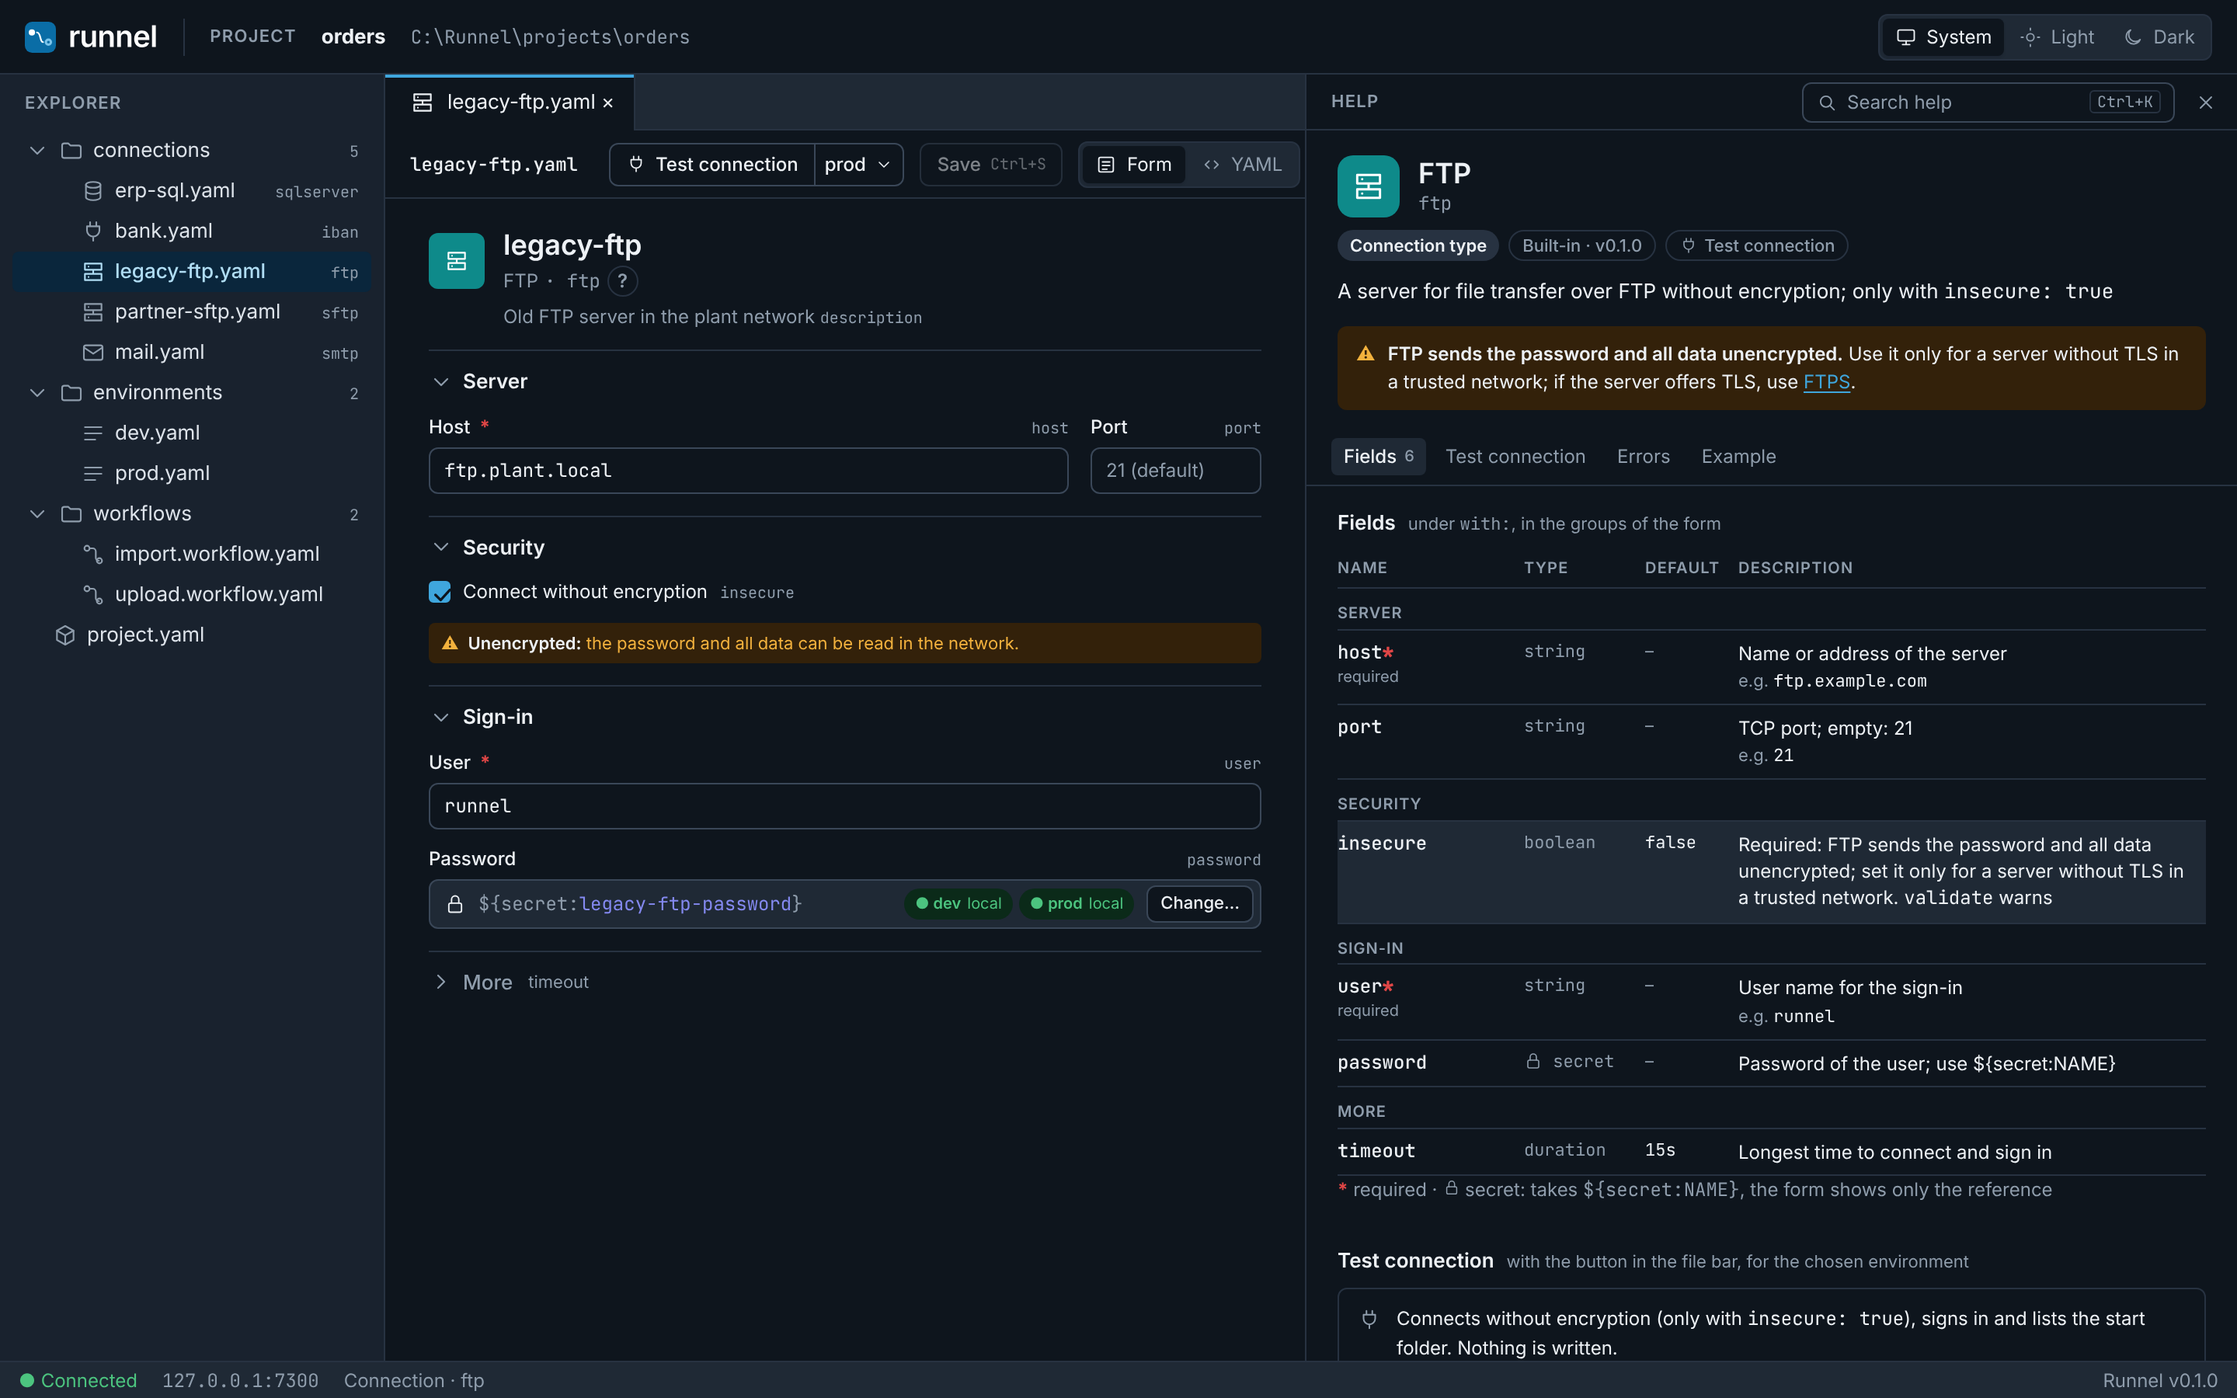
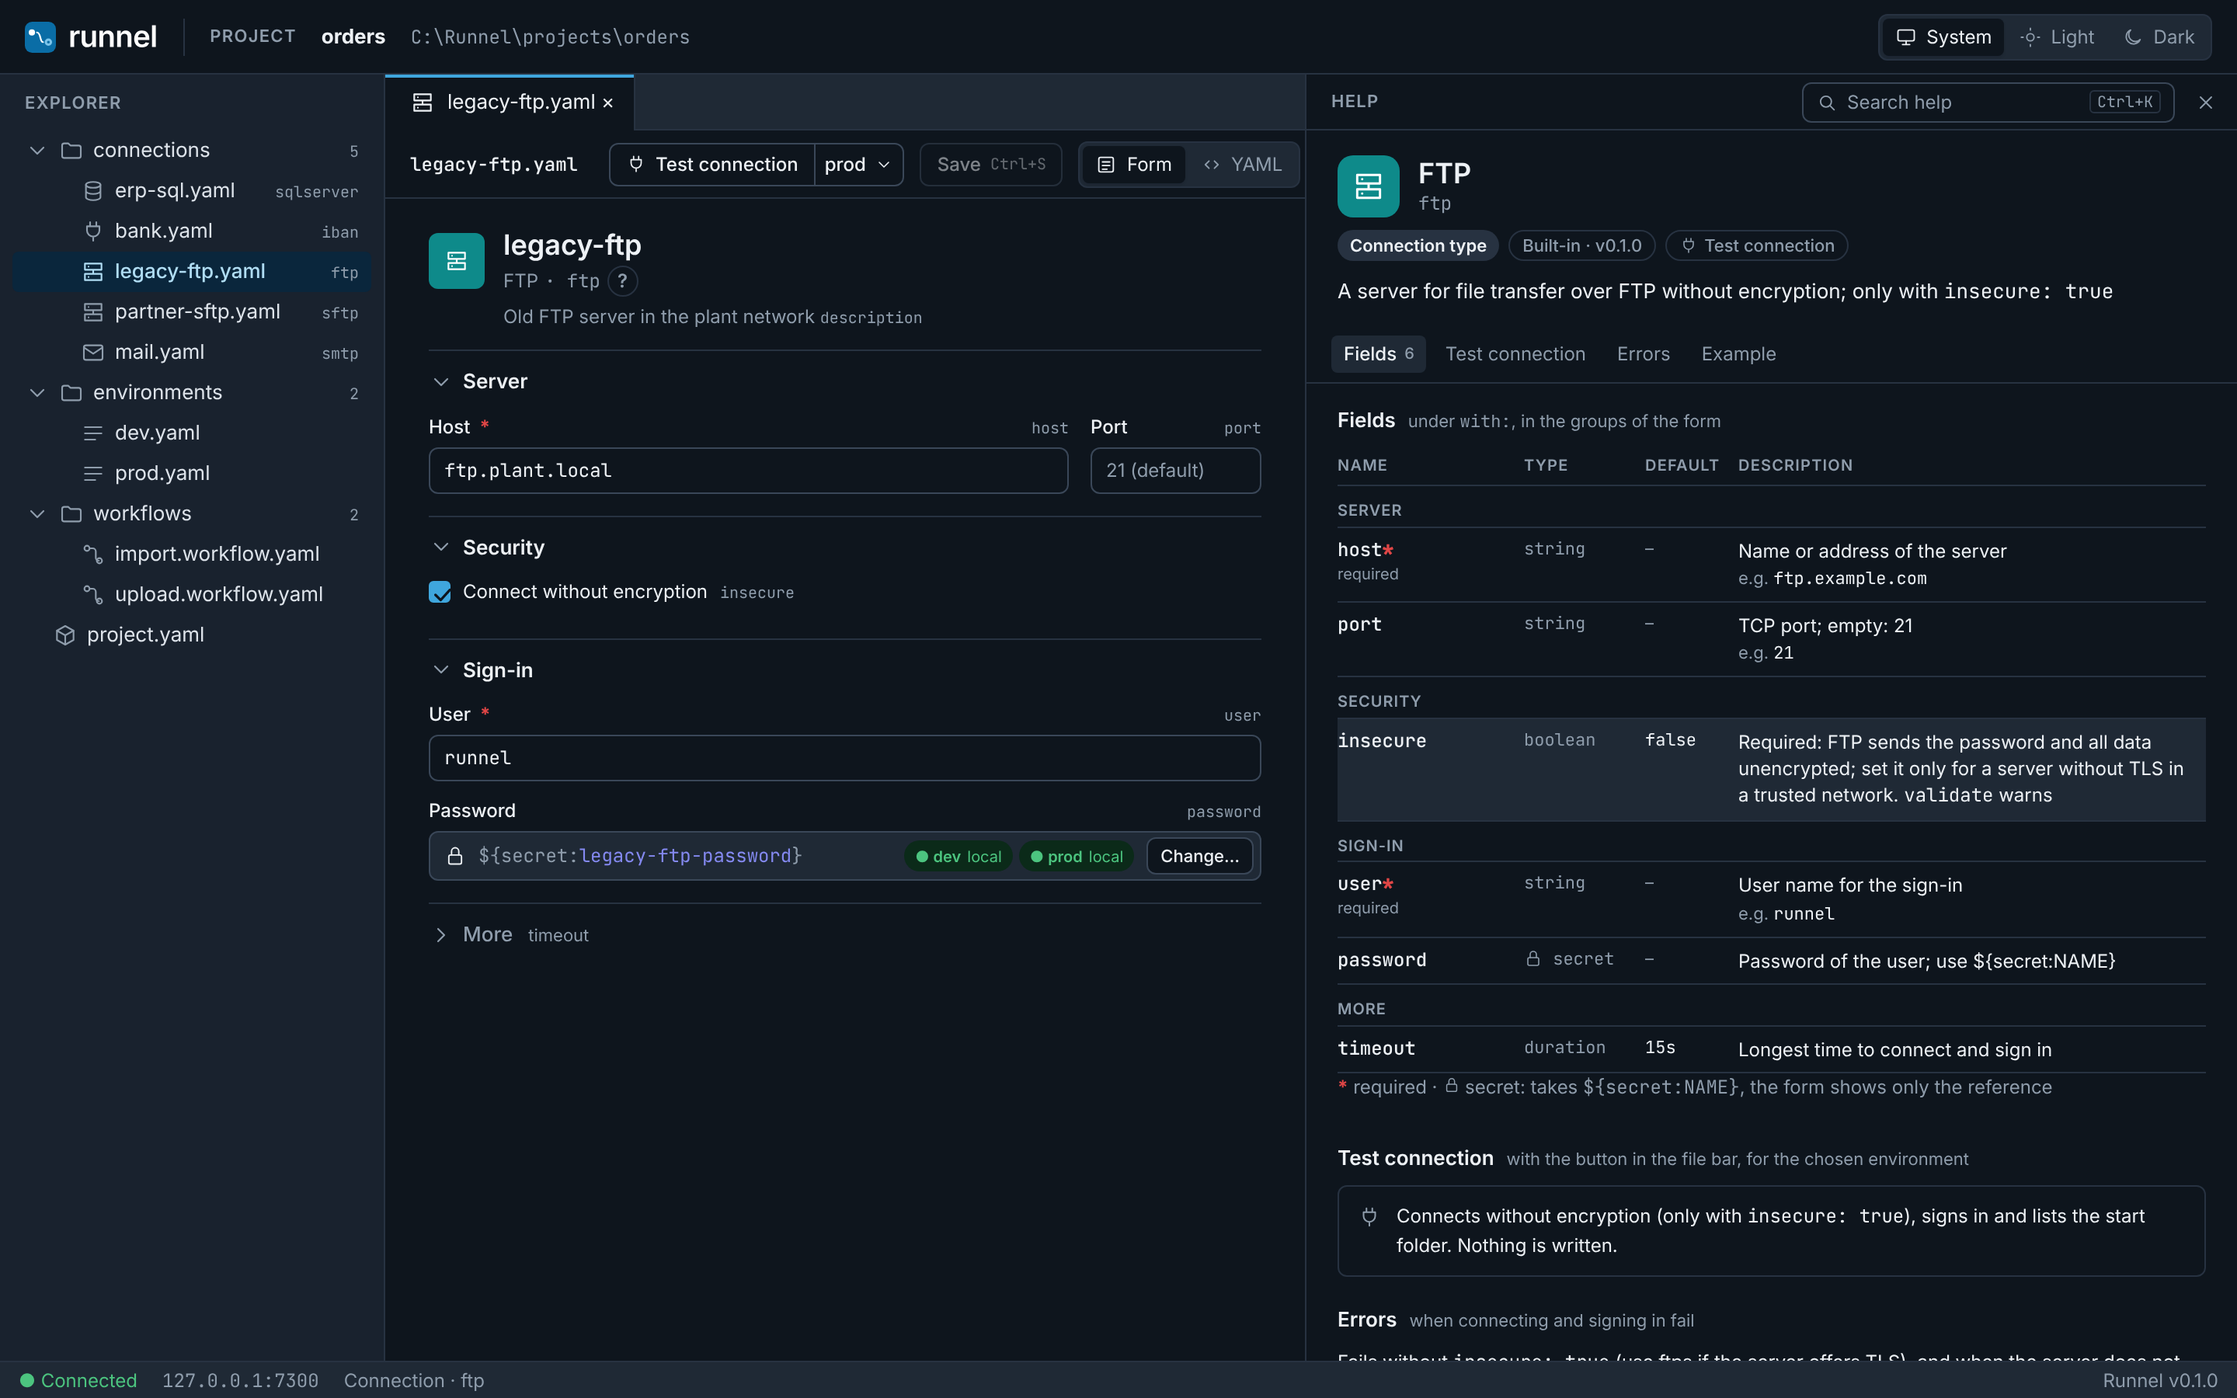
Mockup S39f, E15f: Entscheidungen des Maintainers eingetragen
Alle Vorschläge angenommen; „New connection from example…“ und die
FTP-Warnung entfallen (Beispiele werden später ganzheitlich angegangen),
Screenshots von E15f neu erzeugt, offene Fragen als Entscheidungen
festgehalten.

Claude-Session: https://claude.ai/code/session_015qsFfg698d5y1E1DunyBAf

diff --git a/design/mockups/e15f-connection-help.html b/design/mockups/e15f-connection-help.html
@@ -374,7 +374,6 @@
     ftp: {
       label: "FTP", icon: "srv", cls: "",
       description: "A server for file transfer over FTP without encryption; only with <span class=mono>insecure: true</span>",
-      caution: "<b>FTP sends the password and all data unencrypted.</b> Use it only for a server without TLS in a trusted network; if the server offers TLS, use <a href=\"#\">FTPS</a>.",
       fields: [
         ["Server", [{ n: "host", req: 1, ty: "string", d: "Name or address of the server", eg: "ftp.example.com" },
                     { n: "port", ty: "string", d: "TCP port; empty: 21", eg: "21" }]],
@@ -438,7 +437,7 @@
     }
     html += `<div class="hs"><h3>Errors <small>when connecting and signing in fail</small></h3><p>${t.errors}</p></div>`;
     html += `<div class="hs"><h3>Example <small><span class="mono">connections/&lt;name&gt;.yaml</span></small></h3><div class="ex">${exampleHtml(t.example)}</div>
-      <div class="acts"><button class="btn small">${icon(I.copy, 12)}Copy example</button><button class="btn small">${icon(I.newfile, 12)}New connection from example…</button>
+      <div class="acts"><button class="btn small">${icon(I.copy, 12)}Copy example</button>
       <small>Also in the terminal: <span class="mono">runnel catalog ${type}</span></small></div></div>`;
     return html;
   }
@@ -490,8 +489,7 @@
   } else if (ctype === "ftp") {
     form = head("legacy-ftp", "ftp", "Old FTP server in the plant network", "") + `
       <div class="sec"><h3>${chev}Server</h3><div class="grid2">${fld("Host", "host", inp("ftp.plant.local", { mono: 1 }), { req: 1 })}${fld("Port", "port", inp("21 (default)", { ph: 1 }))}</div></div>
-      <div class="sec"><h3>${chev}Security</h3><div class="fld"><span class="check"><span class="box on">${icon(I.check)}</span>Connect without encryption <span class="mono" style="color:var(--muted-foreground);font-size:10px">insecure</span></span>
-        <div class="note warn"><span>⚠</span><span><b>Unencrypted:</b> the password and all data can be read in the network.</span></div></div></div>
+      <div class="sec"><h3>${chev}Security</h3><div class="fld"><span class="check"><span class="box on">${icon(I.check)}</span>Connect without encryption <span class="mono" style="color:var(--muted-foreground);font-size:10px">insecure</span></span></div></div>
       <div class="sec"><h3>${chev}Sign-in</h3>${fld("User", "user", inp("runnel", { mono: 1 }), { req: 1 })}${fld("Password", "password", secret("legacy-ftp-password"))}</div>
       <div class="sec closed"><h3>${chevRight}More<span class="count">timeout</span></h3></div>`;
   } else {
@@ -550,7 +548,7 @@
       ["db", "db", "PostgreSQL", "postgres", "A PostgreSQL database"], ["sqlite", "db", "SQLite", "sqlite", "A database in a single file, e.g. for local data and tests"],
       ["http", "", "HTTP API", "http", "An HTTP API with its base address and sign-in, e.g. a REST API"], ["smtp", "", "SMTP", "smtp", "A mail server for sending mails"],
       ["srv", "", "SFTP", "sftp", "A server for file transfer over SSH"], ["srv", "", "FTPS", "ftps", "A server for file transfer over FTP with TLS"],
-      ["srv", "", "FTP", "ftp", "A server for file transfer over FTP without encryption; only with insecure: true", "unencrypted"],
+      ["srv", "", "FTP", "ftp", "A server for file transfer over FTP without encryption; only with insecure: true", ""],
       ["plug", "gen", "IBAN service", "iban", "Account of the IBAN service", "", "iban 1.2.0"],
       ["plug", "gen", "Archive", "dms", "Document archive of the DMS", "", "dms 0.4.0", true]];
     const card = ([k, cls, label, ty, d, warn, plugin, noTest]) => `<div class="type ${ty === "sftp" ? "sel" : ""}">${tile(k, cls)}<div style="min-width:0"><b>${label}</b><span class="dsc">${d}</span>

diff --git a/design/mockups/README.md b/design/mockups/README.md
@@ -33,8 +33,8 @@ zwischen hellem und dunklem Modus und den Zuständen (sie gehört nicht zum Entw
 | [`s52-plugins.html`](s52-plugins.html) | S52 – Plugins im Editor | `plugin`, `untrusted`, `trust`, `changed`, `error`, `canvas` | freigegeben mit PR #227; Server mit S52a, `plugin`, `untrusted`, `trust`, `changed` und `error` umgesetzt mit S52b1, `canvas` mit S52b2 |
 | [`e22-split-link.html`](e22-split-link.html) | E22 – Link teilen: Schritt zwischen zwei Schritte einfügen | `drag`, `menu`, `inserted`, `pipeline`, `blocked` | freigegeben mit PR #239, umgesetzt mit E22 |
 | [`e15-help.html`](e15-help.html) | E15c – Hilfe je Baustein im Editor | `open`, `action`, `transform`, `plugin` | freigegeben mit PR #261; umgesetzt mit E15d1, die Suche „Search building blocks“ mit E15d2 |
-| [`s39f-secrets.html`](s39f-secrets.html) | S39f – Secrets im Editor | `missing`, `set`, `unreadable`, `dialog`, `error`, `overview`, `network` | zur Freigabe (Umsetzung mit S39g) |
-| [`e15f-connection-help.html`](e15f-connection-help.html) | E15f – Hilfe zu Connection-Typen im Editor | `open`, `sftp`, `ftp`, `plugin`, `new`, `search` | zur Freigabe (Umsetzung mit E15g) |
+| [`s39f-secrets.html`](s39f-secrets.html) | S39f – Secrets im Editor | `missing`, `set`, `unreadable`, `dialog`, `error`, `overview`, `network` | freigegeben (Umsetzung mit S39g) |
+| [`e15f-connection-help.html`](e15f-connection-help.html) | E15f – Hilfe zu Connection-Typen im Editor | `open`, `sftp`, `ftp`, `plugin`, `new`, `search` | freigegeben (Umsetzung mit E15g) |
 
 ## Entscheidungen
 
@@ -48,17 +48,17 @@ zwischen hellem und dunklem Modus und den Zuständen (sie gehört nicht zum Entw
 | S39f | **Übersicht im Formular von `project.yaml`**, Abschnitt „Secrets“ (aus E20, dort bisher nur `secretStore` und `secrets:`), nicht als dritter Reiter „Secrets“ in der Seitenleiste (Abstimmung zu S39b): Die Seitenleiste ist mit 260–280 px für drei Environments, Fundstellen und Knöpfe zu schmal; im Formular von `project.yaml` stehen schon `secretStore` und die übrigen Einstellungen des Projekts, und die Tabelle hat Platz für alle Environments. Tabelle: eine Zeile je Secret (Name, Anzahl der Fundstellen, „multi-line“), eine Spalte je Environment mit Quelle im Kopf; ein Klick klappt Fundstellen und je Environment eine Karte mit Erklärung und Knopf auf. Filter „All · Missing · Plain text · Not used“. „Not used“ sind Werte im lokalen Store, die keine Datei mehr nennt (aus der Liste des Stores), mit „Delete value“. Erreichbar über „All secrets of the project…“ am Feld und über `project.yaml` im Explorer (⚠ mit Anzahl der fehlenden) |
 | S39f | **Store des Windows-Dienstes:** Der Editor läuft als Benutzer und kann den Store in `%ProgramData%\runnel\secrets` weder lesen noch schreiben (ADR 0022, Nachtrag S39d2). Er zeigt ihn daher nicht als Spalte, sondern als Hinweis (Symbol i) mit den Befehlen `runnel secret set NAME --service` und `runnel secret missing --service` zum Kopieren, auszuführen in einer Konsole als Administrator; ebenso ein Satz im Dialog und am Fuß der Liste am Feld |
 | S39f | **Netzbetrieb (S40b):** Ist der Editor aus dem Netz erreichbar, sind „Set value…“, „Replace value…“ und „Delete value“ deaktiviert; ein neutraler Hinweis über der Übersicht nennt die Adresse und den Grund und verweist auf `runnel secret set` in der Konsole des Servers oder einen Schalter beim Start. Namen und Stände bleiben sichtbar. Die Statusleiste zeigt „Reachable from the network · secrets read only“ |
-| S39f | Offen für den Maintainer: (1) Übersicht im Formular von `project.yaml` statt als dritter Reiter der Seitenleiste – einverstanden? (2) Name des Schalters im Netzbetrieb (im Mockup `--allow-secret-changes`, gehört zu S40b). (3) Kein Anzeigen des getippten Werts – oder ein Auge, das nur beim Gedrückthalten zeigt? (4) „Not used“ mit „Delete value“ in 1.0 oder später? (5) Zeigt die Liste am Feld auch zugeklappt einen Hinweis, wenn nur `inline` betroffen ist? |
+| S39f | Entschieden vom Maintainer (2026-11-27), alles wie vorgeschlagen: (1) Übersicht im Formular von `project.yaml` statt als dritter Reiter der Seitenleiste (löst die Absprache aus S39b ab). (2) Schalter im Netzbetrieb `--allow-secret-changes` (S40b). (3) Kein Anzeigen des getippten Werts, auch kein Auge. (4) „Not used“ mit „Delete value“ gehört zu 1.0. (5) Die Liste am Feld bleibt aufgeklappt, auch wenn nur `inline` betroffen ist |
 | E15f | Zustände: `open` zeigt die Wege zur Hilfe im Formular einer Connection („?“ neben dem Typ im Kopf mit Fokus und Tooltip „Help for SFTP F1“; Tooltip an „Test connection“ mit dem Text aus `test`). `sftp` zeigt die Hilfe von `sftp` bis „Test connection“ gescrollt (Leiste mit Kachel), daneben das Formular mit leerem `hostKey` und dem gescheiterten Test, der den Fingerabdruck nennt. `ftp` zeigt `ftp` von oben mit der Warnung zu `insecure`. `plugin` zeigt den Typ `iban` aus dem Plugin `iban 1.2.0`. `new` zeigt „New → Connection“ mit Beschreibung und Test je Typ. `search` zeigt die Suche (Strg+K) mit „ftp“ |
 | E15f | **Anzeige wie E15c:** breites Panel rechts (600 px), hier neben dem Formular (Connections haben kein Eigenschaften-Panel, daher kein „‹ Properties“, nur ×). Öffnen über „?“ neben dem Typ im Kopf des Formulars, F1 im Formular, „?“ an der Karte des Typs in „New → Connection“ und die Suche. Bei offener Hilfe zeigt die Dateileiste nur den Dateinamen |
 | E15f | **Inhalt** nur aus dem Katalog (`connectionTypes[]`, E15e), in fester Reihenfolge: Kopf (Kachel mit dem Zeichen des Typs aus S39b, Label, Typ), Badges („Connection type“, „Built-in · Version“ bzw. „Plugin name version“, „Test connection“, wenn `test` vorhanden), Beschreibung, Fields, Test connection, Errors, Example. Felder als Tabelle wie E15c, gegliedert nach den Gruppen des Formulars (`x-runnel-group`: Server, Security, Sign-in, More); Secret-Felder mit Schloss und Typ „secret“ |
 | E15f | **„Test connection“** als eigener Abschnitt (Text aus `test`, Symbol Stecker) und als Tooltip am Knopf in der Dateileiste; in „New → Connection“ unter den Karten für den gewählten Typ. Fehlt `test`, steht an der Karte „No test“ und in der Hilfe fehlt der Abschnitt |
-| E15f | **Example** zeigt die ganze Datei aus `example` mit „Copy example“ und „New connection from example…“ (öffnet „New → Connection“ mit Typ und Werten des Beispiels; Name frei) sowie dem Hinweis auf `runnel catalog <typ>` |
-| E15f | **`ftp`:** Unter der Beschreibung eine Warnung (⚠, Warnfarbe): „FTP sends the password and all data unencrypted …“ mit Link zur Hilfe von FTPS; im Formular unter `insecure` eine kurze Warnung, an der Karte in „New → Connection“ „⚠ unencrypted“. Die Zeile von `insecure` bzw. `hostKey` ist in der Tabelle neutral hinterlegt (keine Funktionsfarbe ohne Symbol) |
+| E15f | **Example** zeigt die ganze Datei aus `example` mit „Copy example“ sowie dem Hinweis auf `runnel catalog <typ>` |
+| E15f | **`ftp`:** keine eigene Warnung (Entscheidung des Maintainers 2026-11-27, siehe unten); es gelten Beschreibung und Felddoku von `insecure` aus dem Katalog |
 | E15f | **`sftp`:** Der Hinweis zu `hostKey` kommt aus dem Test: Ohne `hostKey` nennt das Ergebnis den Fingerabdruck des Servers mit der Aufforderung, ihn beim Administrator zu prüfen; das Feld ist gelb mit ⚠ „Required to connect“. Kein „Use this fingerprint“ – Runnel vertraut keinem Host-Key beim ersten Kontakt (ADR 0022, S57a) |
 | E15f | **Plugins:** Kopf, Badges, Beschreibung, Felder und „Test connection“ mit dem festen Text „Asks the plugin to check the connection (connection.test) …“; danach wie in E15c der neutrale Hinweis „No more details from the plugin“ (Symbol i), weil `describe` für Connection-Typen weder `errors` noch `example` annimmt. Kachel: Stecker in der Farbe „Allgemein“ |
 | E15f | **Suche:** Das Feld heißt „Search help“ (statt „Search building blocks“) und findet auch Connection-Typen nach Typ, Label und Beschreibung. Ergebnisse in zwei Gruppen „Connection types“ und „Actions and transforms“ mit Anzahl; Connection-Typen zuerst, die Bausteine darunter gekürzt mit „n more“; Art rechts („Connection“, „Action“, „Transform“) |
-| E15f | Offen für den Maintainer: (1) „New connection from example…“ gewünscht oder nur „Copy example“? (2) Die Warnung bei `ftp` braucht eine Angabe im Katalog (z. B. `x-runnel-warning` am Feld `insecure` oder ein Schlüssel am Typ); sonst müsste der Editor `ftp` fest kennen. (3) Suchfeld umbenennen in „Search help“? (4) Soll auch ein Feld `connection` im Eigenschaften-Panel eines Schritts (z. B. `transfer.upload`) ein „?“ für die Hilfe seines Connection-Typs bekommen? |
+| E15f | Entschieden vom Maintainer (2026-11-27): (1) Nur „Copy example“; „New connection from example…“ entfällt – Beispiele und Vorlagen werden später ganzheitlich angegangen. (2) Keine Warnung bei `ftp` und keine Angabe dafür im Katalog; Beschreibung und Felddoku von `insecure` reichen (Warnung, Hinweis unter `insecure` und „⚠ unencrypted“ auf der Karte aus dem Mockup entfernt). (3) Das Suchfeld heißt „Search help“. (4) Ein Feld `connection` im Eigenschaften-Panel eines Schritts bekommt ein „?“ für die Hilfe seines Connection-Typs (wie im Formular) |
 | E15c | Zustände: `open` zeigt die Wege zur Hilfe (Palette: „?“ an der Kachel unter der Maus oder im Fokus, Tooltip wie bisher mit Hinweis „? or F1 for help“; Panel: „?“ neben dem Typ, der Abschnitt „Help“ wird zur Zeile „Open help“). `action` zeigt die Hilfe von `file.list` (Action, aus der Palette geöffnet) bis zum Ende gescrollt: Output, Errors, Limits mit Link zum Transform, Example mit „Copy example“. `transform` zeigt `core.group-by` (aus dem Panel geöffnet) von oben: Kopf, Badges, Felder mit der verschachtelten Liste `aggregates`, „Fields set“. `plugin` zeigt `iban.check` aus dem Plugin `iban` ohne die neuen Schlüssel |
 | E15c | **Anzeige als breites Panel rechts an Stelle des Eigenschaften-Panels** (600 px statt 320 px), nicht als Tab unten oder Dialog: Der untere Bereich ist für Tabellen mit Beschreibungen zu niedrig (Problems/Log, ca. 170 px); ein Dialog verdeckt den Canvas und den gewählten Schritt, die man beim Lesen oft braucht. Rechts ist der Ort, an dem man den Schritt konfiguriert; der Canvas bleibt sichtbar und bedienbar. Aus dem Panel geöffnet führt „‹ Properties“ zurück (auch Esc), × schließt die Hilfe; aus der Palette geöffnet gibt es nur × |
 | E15c | **Öffnen:** „?“ an der Kachel der Palette (erscheint bei Maus oder Tastaturfokus, wie die Knöpfe im Explorer), „?“ neben dem Typ im Kopf des Panels und F1 (für den gewählten Schritt oder die Kachel im Fokus). Der Abschnitt „Help“ aus E14 (Beispiel, „Show in YAML“, „Copy example“) wird zur Zeile „Open help“; Beispiel und Knöpfe stehen jetzt in der Hilfe. Kein eigenes Kontextmenü der Palette dafür |
